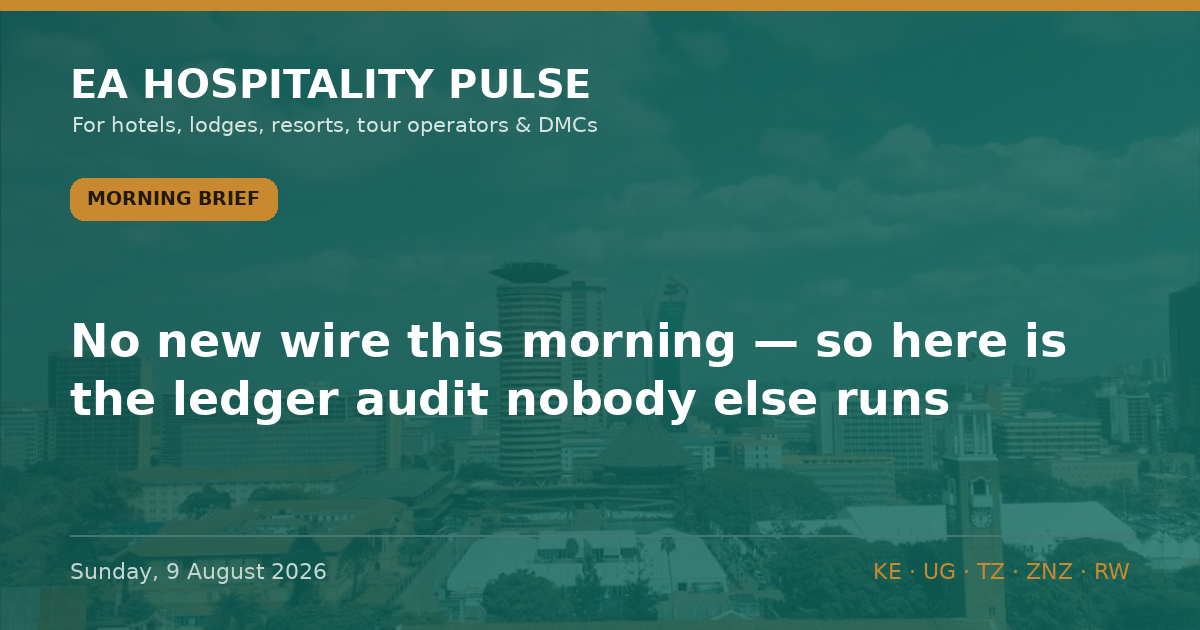
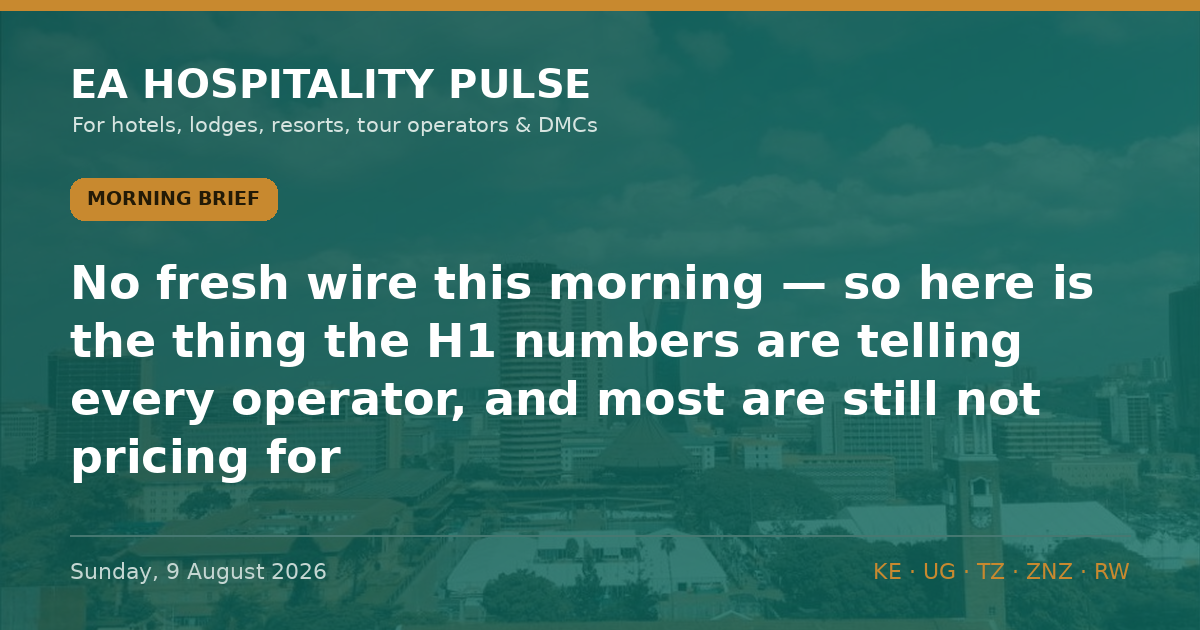
Republish 2026-08-09 Morning as Expert Brief (regional demand thesis)

Changed region(s): [[0.0617, 0.4222, 0.925, 0.7841]]

diff --git a/editions/pulse-2026-08-09-morning.html b/editions/pulse-2026-08-09-morning.html
@@ -2,19 +2,19 @@
 <html lang="en"><head>
 <meta charset="UTF-8"><meta name="viewport" content="width=device-width,initial-scale=1">
 <title>Morning Brief — Sunday, 9 August 2026 | EA Hospitality Pulse</title>
-<meta name="description" content="No new wire this morning — so here is the ledger audit nobody else runs. This is the week it starts paying out: three resolution dates land between Tuesday a…">
+<meta name="description" content="No fresh wire this morning — so here is the thing the H1 numbers are telling every operator, and most are still not pricing for.">
 <link rel="canonical" href="https://eahospitalitypulse.com/editions/pulse-2026-08-09-morning.html">
 <meta property="og:type" content="article"><meta property="og:site_name" content="EA Hospitality Pulse">
 <meta property="og:title" content="Morning Brief — Sunday, 9 August 2026">
-<meta property="og:description" content="No new wire this morning — so here is the ledger audit nobody else runs. This is the week it starts paying out: three resolution dates land between Tuesday a…"><meta property="og:url" content="https://eahospitalitypulse.com/editions/pulse-2026-08-09-morning.html">
+<meta property="og:description" content="No fresh wire this morning — so here is the thing the H1 numbers are telling every operator, and most are still not pricing for."><meta property="og:url" content="https://eahospitalitypulse.com/editions/pulse-2026-08-09-morning.html">
 <meta property="og:image" content="https://eahospitalitypulse.com/og/pulse-2026-08-09-morning.png"><meta property="og:image:width" content="1200"><meta property="og:image:height" content="630">
 <meta name="twitter:image" content="https://eahospitalitypulse.com/og/pulse-2026-08-09-morning.png">
 <link rel="icon" href="../favicon.png"><link rel="apple-touch-icon" href="../apple-touch-icon.png">
 <meta name="twitter:card" content="summary_large_image">
 <meta name="twitter:title" content="Morning Brief — Sunday, 9 August 2026">
-<meta name="twitter:description" content="No new wire this morning — so here is the ledger audit nobody else runs. This is the week it starts paying out: three resolution dates land between Tuesday a…">
+<meta name="twitter:description" content="No fresh wire this morning — so here is the thing the H1 numbers are telling every operator, and most are still not pricing for.">
 <meta property="article:published_time" content="2026-08-09">
-<script type="application/ld+json">{"@context": "https://schema.org", "@type": "NewsArticle", "headline": "No new wire this morning \u2014 so here is the ledger audit nobody else runs. This is the week it starts paying out", "datePublished": "2026-08-09", "dateModified": "2026-08-09", "description": "No new wire this morning \u2014 so here is the ledger audit nobody else runs. This is the week it starts paying out: three resolution dates land between Tuesday a\u2026", "url": "https://eahospitalitypulse.com/editions/pulse-2026-08-09-morning.html", "mainEntityOfPage": "https://eahospitalitypulse.com/editions/pulse-2026-08-09-morning.html", "articleSection": "Morning Brief", "author": {"@type": "Organization", "name": "EA Hospitality Pulse"}, "publisher": {"@type": "Organization", "name": "EA Hospitality Pulse"}, "about": ["Kenya", "Uganda", "Tanzania", "Zanzibar", "Rwanda", "hospitality", "tourism"]}</script>
+<script type="application/ld+json">{"@context": "https://schema.org", "@type": "NewsArticle", "headline": "No fresh wire this morning \u2014 so here is the thing the H1 numbers are telling every operator, and most are stil", "datePublished": "2026-08-09", "dateModified": "2026-08-09", "description": "No fresh wire this morning \u2014 so here is the thing the H1 numbers are telling every operator, and most are still not pricing for.", "url": "https://eahospitalitypulse.com/editions/pulse-2026-08-09-morning.html", "mainEntityOfPage": "https://eahospitalitypulse.com/editions/pulse-2026-08-09-morning.html", "articleSection": "Morning Brief", "author": {"@type": "Organization", "name": "EA Hospitality Pulse"}, "publisher": {"@type": "Organization", "name": "EA Hospitality Pulse"}, "about": ["Kenya", "Uganda", "Tanzania", "Zanzibar", "Rwanda", "hospitality", "tourism"]}</script>
 <style>
 :root{--sand:#f6f1e7;--ink:#1f2421;--muted:#6b6656;--gold:#c8892f;--gold-d:#a86f1f;--teal:#0f6d63;--teal-d:#0a4f48;--line:#e2d8c4;--sand-2:#efe7d6;--card:#fffdf9}
 *{box-sizing:border-box}body{margin:0;font-family:Georgia,Cambria,serif;color:var(--ink);background:var(--sand);line-height:1.6}
@@ -50,12 +50,11 @@ footer.s{text-align:center;color:var(--muted);font-family:Helvetica Neue,Arial,s
     <img class="hero" src="../og/pulse-2026-08-09-morning.png" alt="Morning Brief — Sunday, 9 August 2026" loading="eager">
     <a class="nav" href="../index.html#archive">← All editions</a>
     <div><span class="badge">Morning Brief</span><time>Sunday, 9 August 2026</time></div>
-    <h1>No new wire this morning — so here is the ledger audit nobody else runs.</h1>
+    <h1>No fresh wire this morning — so here is the thing the H1 numbers are telling every operator, and most are still not pric.</h1>
     <p><span class="meta-line">🏨 EA HOSPITALITY PULSE — Morning Brief</span><br><span class="meta-line">📅 Sunday, 9 August 2026 | 🇰🇪🇹🇿🇺🇬🇷🇼</span></p>
-<p>No new wire this morning — so here is the ledger audit nobody else runs. This is the week it starts paying out: three resolution dates land between Tuesday and Thursday.<br>━━━━━━━━━<br><span class="item-head">1⃣ FORECAST CHECK-IN — THREE DAYS TO 12 AUGUST, AND THE LEDGER PAYS OUT THIS WEEK</span><br>The US CDC&#x27;s §362 Ebola entry suspension (DRC, Uganda, South Sudan) still expires Tuesday 12 August. Re-checked this morning: the latest order remains the one published 16 July (effective 13 July) — no early renewal, no early lapse (our call P057, that no new order posts before 11 Aug, is now two days from resolving and still on track). The DRC epidemiology behind it is unchanged since the weekend: 4,053 confirmed cases and 1,850 deaths to 5 August (ECDC/DRC update, 6 Aug) — the next WHO AFRO weekly sit-rep is due Tuesday.<br>The operator question on 12 Aug is not &quot;renew or lift&quot; — DRC&#x27;s numbers argue for renewal. It&#x27;s whether CDC decouples Uganda (Ebola-free since 28 July, now 49 days clear) and drops it from the list.<br><span class="sowhat">🎯 So what: keep the ban in your base case past 12 Aug. But if you run Uganda bush or Entebbe city rooms, this is the week a US-source recovery could get its first green light — have the trade-partner note drafted for either outcome before Tuesday.</span><br><span class="tagline">🏷 All | Regional/Uganda | Reported</span></p>
-<p><span class="item-head">2⃣ STILL TRUE — THE ADVISORY BOARD HASN&#x27;T MOVED</span><br>Re-verified this morning. US: Kenya L2, Tanzania L3, Zanzibar L3, Uganda L4, Rwanda L3. UK: Kenya L2, Tanzania/Zanzibar L1, Uganda L3, Rwanda L2. Uganda&#x27;s US Level 4 stands — driven by the regional Ebola risk, not a new domestic trigger. No government moved a level over the weekend.<br><span class="sowhat">🎯 So what: a confirmed &quot;no change&quot; tells you not to discount on advisory grounds. Hold rate and hold your security messaging.</span><br><span class="tagline">🏷 All | Regional | Confirmed</span></p>
-<p><span class="item-head">3⃣ COST PULSE — THE PUMP-PRICE WINDOW CLOSES IN FIVE DAYS</span><br>Kenya diesel is held at KSh 222.86/L and super at KSh 214.03/L only through 14 August (EPRA July review) — propped by a KSh 945m levy draw and the 8% petroleum VAT rate extended to 14 Oct. KES steady at 129.30/USD; reserves at 6.0 months&#x27; cover. The quiet killer stands: electricity pass-through charges now top KSh 5/kWh.<br><span class="sowhat">🎯 So what: lock safari-transfer and generator-fuel contracts this week, before the ~14–15 Aug review reprices the cycle. Read the pass-through line on the power bill, not the tariff band.</span><br><span class="tagline">🏷 Bush | Kenya | Confirmed</span><br>━━━━━━━━━<br><span class="meta-line">📡 WEEK AHEAD</span><br>• Mon 11 Aug — CDC port-health page: our call P057 (no early Ebola order) resolves<br>• Tue 12 Aug — §362 entry order expires; watch renewal + whether Uganda is dropped (P034/P044/P047/P056 resolve). WHO AFRO weekly DRC sit-rep also due<br>• Wed–Thu 13–14 Aug — CDC renewal confirmation window (P044/P047)<br>• Thu–Fri 14–15 Aug — EPRA fuel review reprices the cycle<br>• 19–21 Aug — Hotel Expo Kenya, KICC Nairobi — a city-hotel midweek compression window</p>
-<p><span class="meta-line">📡 RADAR: could not refresh the live feed from the sandbox this run — 79 of 85 upstream sources returned 403 through the proxy, so the local scan logged 0 in-window observations. That&#x27;s a tooling limit, not a quiet pipeline. The three lead items were instead verified directly against WHO/ECDC, the CDC port-health page and travel.state.gov this morning.</span></p>
+<p>No fresh wire this morning — so here is the thing the H1 numbers are telling every operator, and most are still not pricing for.<br>━━━━━━━━━<br><span class="item-head">1⃣ THE GUESTS ARE ALREADY ACROSS THE BORDER</span><br>The half-year data is in, and it points one way. South Africa took 5.58m international arrivals in H1 2026, up 12.3% — but the split matters more than the headline: arrivals from the rest of Africa rose 14.3%, while overseas arrivals grew just 5.6% (Statistics South Africa, released 30 July). More than 70% of monthly arrivals came from the SADC region. The same pattern shows in our own backyard: Rwanda&#x27;s single largest source market in H1 was not Europe or America but the DRC — 185,420 visitors, 12.5% of arrivals — with Kenya (10%) and Tanzania (9%) next (Rwanda Development Board, H1 2026).<br>Regional demand is growing two to three times faster than long-haul, and it is the base that holds when a Western advisory lands or the dollar turns. Yet it is still treated as walk-in: undifferentiated rate, no product, no campaign.<br><span class="sowhat">🎯 So what: build a deliberate regional book, don&#x27;t wait for it. City hotels — price a weekday cross-border corporate and long-stay rate for the trade, health and education travel that already fills midweek. Bush — sell the shoulder season on the African-resident and EAC tariff you already have (Uganda gorilla permits run US$500 for Africans and UGX 300,000 for EAC citizens vs US$800 foreign; low-season US$600). Beach — court the Gulf and India charter demand that fills the European off-months.</span><br><span class="tagline">🏷 All | Regional/Rwanda/EA | Reported</span><br>━━━━━━━━━<br>📌 STILL TRUE (context, unchanged)<br>• Advisory board: US — Kenya L2, Uganda L4, Tanzania/Zanzibar L3, Rwanda L3. No weekend move.<br>• Cost: Kenya diesel KSh 222.86/L, super KSh 214.03/L held only through 14 Aug (EPRA July review). Lock transfer/generator contracts this week.</p>
+<p><span class="meta-line">📡 THE WATCH</span><br>• Tue 12 Aug — US CDC §362 Ebola entry order expires; watch renewal + whether Uganda is decoupled<br>• Thu–Fri 14–15 Aug — EPRA fuel review reprices the cycle<br>• 19–21 Aug — Hotel Expo Kenya, KICC Nairobi — city-hotel midweek compression</p>
+<p><span class="meta-line">💬 Are you quoting a distinct regional rate, or letting the border trade walk in at rack?</span></p>
 <p>🔗 This edition on the web: https://eahospitalitypulse.com/editions/pulse-2026-08-09-morning.html<br>— EA Hospitality Pulse | Daily intelligence for city, bush &amp; beach properties</p>
     
     <div class="sub">

diff --git a/data.js b/data.js
@@ -5,8 +5,8 @@ window.EDITIONS = [
   "dateDisplay": "Sunday, 9 August 2026",
   "edition": "Morning Brief",
   "editionKey": "morning",
-  "summary": "No new wire this morning — so here is the ledger audit nobody else runs. This is the week it starts paying out: three resolution dates land between Tuesday and Thursday.",
-  "bodyHtml": "<p><span class=\"meta-line\">🏨 EA HOSPITALITY PULSE — Morning Brief</span><br><span class=\"meta-line\">📅 Sunday, 9 August 2026 | 🇰🇪🇹🇿🇺🇬🇷🇼</span></p>\n<p>No new wire this morning — so here is the ledger audit nobody else runs. This is the week it starts paying out: three resolution dates land between Tuesday and Thursday.<br>━━━━━━━━━<br><span class=\"item-head\">1⃣ FORECAST CHECK-IN — THREE DAYS TO 12 AUGUST, AND THE LEDGER PAYS OUT THIS WEEK</span><br>The US CDC&#x27;s §362 Ebola entry suspension (DRC, Uganda, South Sudan) still expires Tuesday 12 August. Re-checked this morning: the latest order remains the one published 16 July (effective 13 July) — no early renewal, no early lapse (our call P057, that no new order posts before 11 Aug, is now two days from resolving and still on track). The DRC epidemiology behind it is unchanged since the weekend: 4,053 confirmed cases and 1,850 deaths to 5 August (ECDC/DRC update, 6 Aug) — the next WHO AFRO weekly sit-rep is due Tuesday.<br>The operator question on 12 Aug is not &quot;renew or lift&quot; — DRC&#x27;s numbers argue for renewal. It&#x27;s whether CDC decouples Uganda (Ebola-free since 28 July, now 49 days clear) and drops it from the list.<br><span class=\"sowhat\">🎯 So what: keep the ban in your base case past 12 Aug. But if you run Uganda bush or Entebbe city rooms, this is the week a US-source recovery could get its first green light — have the trade-partner note drafted for either outcome before Tuesday.</span><br><span class=\"tagline\">🏷 All | Regional/Uganda | Reported</span></p>\n<p><span class=\"item-head\">2⃣ STILL TRUE — THE ADVISORY BOARD HASN&#x27;T MOVED</span><br>Re-verified this morning. US: Kenya L2, Tanzania L3, Zanzibar L3, Uganda L4, Rwanda L3. UK: Kenya L2, Tanzania/Zanzibar L1, Uganda L3, Rwanda L2. Uganda&#x27;s US Level 4 stands — driven by the regional Ebola risk, not a new domestic trigger. No government moved a level over the weekend.<br><span class=\"sowhat\">🎯 So what: a confirmed &quot;no change&quot; tells you not to discount on advisory grounds. Hold rate and hold your security messaging.</span><br><span class=\"tagline\">🏷 All | Regional | Confirmed</span></p>\n<p><span class=\"item-head\">3⃣ COST PULSE — THE PUMP-PRICE WINDOW CLOSES IN FIVE DAYS</span><br>Kenya diesel is held at KSh 222.86/L and super at KSh 214.03/L only through 14 August (EPRA July review) — propped by a KSh 945m levy draw and the 8% petroleum VAT rate extended to 14 Oct. KES steady at 129.30/USD; reserves at 6.0 months&#x27; cover. The quiet killer stands: electricity pass-through charges now top KSh 5/kWh.<br><span class=\"sowhat\">🎯 So what: lock safari-transfer and generator-fuel contracts this week, before the ~14–15 Aug review reprices the cycle. Read the pass-through line on the power bill, not the tariff band.</span><br><span class=\"tagline\">🏷 Bush | Kenya | Confirmed</span><br>━━━━━━━━━<br><span class=\"meta-line\">📡 WEEK AHEAD</span><br>• Mon 11 Aug — CDC port-health page: our call P057 (no early Ebola order) resolves<br>• Tue 12 Aug — §362 entry order expires; watch renewal + whether Uganda is dropped (P034/P044/P047/P056 resolve). WHO AFRO weekly DRC sit-rep also due<br>• Wed–Thu 13–14 Aug — CDC renewal confirmation window (P044/P047)<br>• Thu–Fri 14–15 Aug — EPRA fuel review reprices the cycle<br>• 19–21 Aug — Hotel Expo Kenya, KICC Nairobi — a city-hotel midweek compression window</p>\n<p><span class=\"meta-line\">📡 RADAR: could not refresh the live feed from the sandbox this run — 79 of 85 upstream sources returned 403 through the proxy, so the local scan logged 0 in-window observations. That&#x27;s a tooling limit, not a quiet pipeline. The three lead items were instead verified directly against WHO/ECDC, the CDC port-health page and travel.state.gov this morning.</span></p>\n<p>🔗 This edition on the web: https://eahospitalitypulse.com/editions/pulse-2026-08-09-morning.html<br>— EA Hospitality Pulse | Daily intelligence for city, bush &amp; beach properties</p>"
+  "summary": "No fresh wire this morning — so here is the thing the H1 numbers are telling every operator, and most are still not pricing for.",
+  "bodyHtml": "<p><span class=\"meta-line\">🏨 EA HOSPITALITY PULSE — Morning Brief</span><br><span class=\"meta-line\">📅 Sunday, 9 August 2026 | 🇰🇪🇹🇿🇺🇬🇷🇼</span></p>\n<p>No fresh wire this morning — so here is the thing the H1 numbers are telling every operator, and most are still not pricing for.<br>━━━━━━━━━<br><span class=\"item-head\">1⃣ THE GUESTS ARE ALREADY ACROSS THE BORDER</span><br>The half-year data is in, and it points one way. South Africa took 5.58m international arrivals in H1 2026, up 12.3% — but the split matters more than the headline: arrivals from the rest of Africa rose 14.3%, while overseas arrivals grew just 5.6% (Statistics South Africa, released 30 July). More than 70% of monthly arrivals came from the SADC region. The same pattern shows in our own backyard: Rwanda&#x27;s single largest source market in H1 was not Europe or America but the DRC — 185,420 visitors, 12.5% of arrivals — with Kenya (10%) and Tanzania (9%) next (Rwanda Development Board, H1 2026).<br>Regional demand is growing two to three times faster than long-haul, and it is the base that holds when a Western advisory lands or the dollar turns. Yet it is still treated as walk-in: undifferentiated rate, no product, no campaign.<br><span class=\"sowhat\">🎯 So what: build a deliberate regional book, don&#x27;t wait for it. City hotels — price a weekday cross-border corporate and long-stay rate for the trade, health and education travel that already fills midweek. Bush — sell the shoulder season on the African-resident and EAC tariff you already have (Uganda gorilla permits run US$500 for Africans and UGX 300,000 for EAC citizens vs US$800 foreign; low-season US$600). Beach — court the Gulf and India charter demand that fills the European off-months.</span><br><span class=\"tagline\">🏷 All | Regional/Rwanda/EA | Reported</span><br>━━━━━━━━━<br>📌 STILL TRUE (context, unchanged)<br>• Advisory board: US — Kenya L2, Uganda L4, Tanzania/Zanzibar L3, Rwanda L3. No weekend move.<br>• Cost: Kenya diesel KSh 222.86/L, super KSh 214.03/L held only through 14 Aug (EPRA July review). Lock transfer/generator contracts this week.</p>\n<p><span class=\"meta-line\">📡 THE WATCH</span><br>• Tue 12 Aug — US CDC §362 Ebola entry order expires; watch renewal + whether Uganda is decoupled<br>• Thu–Fri 14–15 Aug — EPRA fuel review reprices the cycle<br>• 19–21 Aug — Hotel Expo Kenya, KICC Nairobi — city-hotel midweek compression</p>\n<p><span class=\"meta-line\">💬 Are you quoting a distinct regional rate, or letting the border trade walk in at rack?</span></p>\n<p>🔗 This edition on the web: https://eahospitalitypulse.com/editions/pulse-2026-08-09-morning.html<br>— EA Hospitality Pulse | Daily intelligence for city, bush &amp; beach properties</p>"
  },
  {
   "id": "pulse-2026-08-08-evening",
@@ -388,21 +388,6 @@ window.EDITIONS = [
  }
 ];
 window.INSIGHTS = [
- {
-  "headline": "COST PULSE — THE PUMP-PRICE WINDOW CLOSES IN FIVE DAYS",
-  "body": "Kenya diesel is held at KSh 222.86/L and super at KSh 214.03/L only through 14 August (EPRA July review) — propped by a KSh 945m levy draw and the 8% petroleum VAT rate extended to 14 Oct. KES steady at 129.30/USD; reserves at 6.0 months' cover. The quiet killer stands: electricity pass-through charges now top KSh 5/kWh.",
-  "sowhat": "🎯 So what: lock safari-transfer and generator-fuel contracts this week, before the ~14–15 Aug review reprices the cycle. Read the pass-through line on the power bill, not the tariff band.",
-  "segments": [
-   "bush"
-  ],
-  "countries": "Kenya",
-  "confidence": "Confirmed",
-  "source": "pulse-2026-08-09-morning",
-  "date": "2026-08-09",
-  "dateDisplay": "Sunday, 9 August 2026",
-  "edition": "Morning Brief",
-  "editionKey": "morning"
- },
  {
   "headline": "COST PULSE — THE PUMP-PRICE WINDOW CLOSES IN SIX DAYS",
   "body": "Kenya diesel is held at KSh 222.86/L and super at KSh 214.03/L only through 14 August (EPRA July review) — propped by a KSh 945m levy draw and the 8% petroleum VAT rate extended to 14 Oct. KES steady at 129.30/USD; reserves 6.0 months' cover. The quiet killer stands: electricity pass-through charges now top KSh 5/kWh.",
@@ -1768,4 +1753,4 @@ window.INSIGHTS = [
   "editionKey": "evening"
  }
 ];
-window.BUILT_AT = "2026-08-09 10:03";
+window.BUILT_AT = "2026-08-09 10:26";

diff --git a/index.html b/index.html
@@ -350,7 +350,7 @@
   .pl-brand{font-family:'Helvetica Neue',Arial,sans-serif;font-size:12px;font-weight:600;color:var(--muted);background:var(--sand-2);padding:2px 8px;border-radius:20px;margin-left:4px;white-space:nowrap}
   .pl-detail{font-size:14px;color:var(--muted);margin:6px 0 8px;line-height:1.55}
 </style>
-<!--BUILD_STAMP:20260809-1003--></head>
+<!--BUILD_STAMP:20260809-1026--></head>
 <body>
 <header class="site">
   <div class="wrap topbar">

diff --git a/ledger.js b/ledger.js
@@ -1,5 +1,5 @@
 window.LEDGER = {
- "updated": "2026-08-09 10:03",
+ "updated": "2026-08-09 10:26",
  "stats": {
   "total": 59,
   "open": 53,

diff --git a/editions-src/pulse-2026-08-09-morning.md b/editions-src/pulse-2026-08-09-morning.md
@@ -1,76 +1,70 @@
 # EA Hospitality Pulse — Morning Brief — Sunday, 9 August 2026
 
-_Tier 2 Standing Brief. No new development clears the recency gate this morning — the general sweep returned only undated SEO aggregators (Travel And Tour World, MICE Travel Advisor), and no primary source has moved since yesterday's evening wrap. This edition leads with the forecast-ledger audit nobody else runs, now three days out from the 12 August call and re-verified against primary sources this morning: the CDC order still expires Tuesday, DRC epidemiology unchanged at 4,053, Uganda still Level 4. Radar note (honest): the sandbox could not refresh the live feed this run — 79 of 85 upstream sources returned 403 through the proxy allowlist, so the local scan showed 0 in-window observations, a tooling limitation, not a dead pipeline or a quiet news day. Lead items were verified directly against WHO/ECDC, the CDC port-health page and travel.state.gov via web search instead._
+_Expert Brief. No new EA development clears the recency gate this morning, so the lead is analysis, not a digest: what the H1 2026 arrivals data from across Africa says about where East Africa's resilient demand actually sits — and what most operators are still mispricing. Forecast ledger checked silently (12 August CDC cluster unchanged; nothing resolved overnight). Sources: Statistics South Africa H1 2026 (released 30 July 2026), Rwanda Development Board H1 2026 arrivals, Uganda Wildlife Authority tariff. Figures graded Reported unless the primary body is named._
 
 ## TELEGRAM
 
 🏨 EA HOSPITALITY PULSE — Morning Brief
 📅 Sunday, 9 August 2026 | 🇰🇪🇹🇿🇺🇬🇷🇼
 
-No new wire this morning — so here is the ledger audit nobody else runs. This is the week it starts paying out: three resolution dates land between Tuesday and Thursday.
+No fresh wire this morning — so here is the thing the H1 numbers are telling every operator, and most are still not pricing for.
 ━━━━━━━━━
-1⃣ FORECAST CHECK-IN — THREE DAYS TO 12 AUGUST, AND THE LEDGER PAYS OUT THIS WEEK
-The US CDC's §362 Ebola entry suspension (DRC, Uganda, South Sudan) still expires Tuesday 12 August. Re-checked this morning: the latest order remains the one published 16 July (effective 13 July) — no early renewal, no early lapse (our call P057, that no new order posts before 11 Aug, is now two days from resolving and still on track). The DRC epidemiology behind it is unchanged since the weekend: 4,053 confirmed cases and 1,850 deaths to 5 August (ECDC/DRC update, 6 Aug) — the next WHO AFRO weekly sit-rep is due Tuesday.
-The operator question on 12 Aug is not "renew or lift" — DRC's numbers argue for renewal. It's whether CDC decouples Uganda (Ebola-free since 28 July, now 49 days clear) and drops it from the list.
-🎯 So what: keep the ban in your base case past 12 Aug. But if you run Uganda bush or Entebbe city rooms, this is the week a US-source recovery could get its first green light — have the trade-partner note drafted for either outcome before Tuesday.
-🏷 All | Regional/Uganda | Reported
-
-2⃣ STILL TRUE — THE ADVISORY BOARD HASN'T MOVED
-Re-verified this morning. US: Kenya L2, Tanzania L3, Zanzibar L3, Uganda L4, Rwanda L3. UK: Kenya L2, Tanzania/Zanzibar L1, Uganda L3, Rwanda L2. Uganda's US Level 4 stands — driven by the regional Ebola risk, not a new domestic trigger. No government moved a level over the weekend.
-🎯 So what: a confirmed "no change" tells you not to discount on advisory grounds. Hold rate and hold your security messaging.
-🏷 All | Regional | Confirmed
-
-3⃣ COST PULSE — THE PUMP-PRICE WINDOW CLOSES IN FIVE DAYS
-Kenya diesel is held at KSh 222.86/L and super at KSh 214.03/L only through 14 August (EPRA July review) — propped by a KSh 945m levy draw and the 8% petroleum VAT rate extended to 14 Oct. KES steady at 129.30/USD; reserves at 6.0 months' cover. The quiet killer stands: electricity pass-through charges now top KSh 5/kWh.
-🎯 So what: lock safari-transfer and generator-fuel contracts this week, before the ~14–15 Aug review reprices the cycle. Read the pass-through line on the power bill, not the tariff band.
-🏷 Bush | Kenya | Confirmed
+1⃣ THE GUESTS ARE ALREADY ACROSS THE BORDER
+The half-year data is in, and it points one way. South Africa took 5.58m international arrivals in H1 2026, up 12.3% — but the split matters more than the headline: arrivals from the rest of Africa rose 14.3%, while overseas arrivals grew just 5.6% (Statistics South Africa, released 30 July). More than 70% of monthly arrivals came from the SADC region. The same pattern shows in our own backyard: Rwanda's single largest source market in H1 was not Europe or America but the DRC — 185,420 visitors, 12.5% of arrivals — with Kenya (10%) and Tanzania (9%) next (Rwanda Development Board, H1 2026).
+Regional demand is growing two to three times faster than long-haul, and it is the base that holds when a Western advisory lands or the dollar turns. Yet it is still treated as walk-in: undifferentiated rate, no product, no campaign.
+🎯 So what: build a deliberate regional book, don't wait for it. City hotels — price a weekday cross-border corporate and long-stay rate for the trade, health and education travel that already fills midweek. Bush — sell the shoulder season on the African-resident and EAC tariff you already have (Uganda gorilla permits run US$500 for Africans and UGX 300,000 for EAC citizens vs US$800 foreign; low-season US$600). Beach — court the Gulf and India charter demand that fills the European off-months.
+🏷 All | Regional/Rwanda/EA | Reported
 ━━━━━━━━━
-📡 WEEK AHEAD
-• Mon 11 Aug — CDC port-health page: our call P057 (no early Ebola order) resolves
-• Tue 12 Aug — §362 entry order expires; watch renewal + whether Uganda is dropped (P034/P044/P047/P056 resolve). WHO AFRO weekly DRC sit-rep also due
-• Wed–Thu 13–14 Aug — CDC renewal confirmation window (P044/P047)
+📌 STILL TRUE (context, unchanged)
+• Advisory board: US — Kenya L2, Uganda L4, Tanzania/Zanzibar L3, Rwanda L3. No weekend move.
+• Cost: Kenya diesel KSh 222.86/L, super KSh 214.03/L held only through 14 Aug (EPRA July review). Lock transfer/generator contracts this week.
+
+📡 THE WATCH
+• Tue 12 Aug — US CDC §362 Ebola entry order expires; watch renewal + whether Uganda is decoupled
 • Thu–Fri 14–15 Aug — EPRA fuel review reprices the cycle
-• 19–21 Aug — Hotel Expo Kenya, KICC Nairobi — a city-hotel midweek compression window
+• 19–21 Aug — Hotel Expo Kenya, KICC Nairobi — city-hotel midweek compression
 
-📡 RADAR: could not refresh the live feed from the sandbox this run — 79 of 85 upstream sources returned 403 through the proxy, so the local scan logged 0 in-window observations. That's a tooling limit, not a quiet pipeline. The three lead items were instead verified directly against WHO/ECDC, the CDC port-health page and travel.state.gov this morning.
+💬 Are you quoting a distinct regional rate, or letting the border trade walk in at rack?
 
 🔗 This edition on the web: https://eahospitalitypulse.com/editions/pulse-2026-08-09-morning.html
 — EA Hospitality Pulse | Daily intelligence for city, bush & beach properties
 
 ## WHATSAPP
 
-📌 *EA HOSPITALITY PULSE*
+🏨 *EA HOSPITALITY PULSE*
 _Morning · Sun 9 Aug_
 
-📌 *Three days to the 12 August call — and this is the week it resolves*
-The US CDC Ebola entry ban (Uganda, DRC, South Sudan) still expires Tue 12 Aug; no early move this morning. DRC unchanged at 4,053 confirmed (ECDC), but Uganda is now 49 days clear and Ebola-free — watch for a decouple, not just a renewal.
-→ *Do this:* hold rate — advisory board unchanged — and lock fuel/transfer contracts before Kenya's ~14–15 Aug EPRA review (diesel KSh 222.86/L through 14 Aug only).
+📌 *Your fastest-growing market is next door — are you pricing it?*
+Africa's H1 2026 data is clear: in South Africa, arrivals from the continent grew 14.3% vs just 5.6% overseas (Stats SA). Rwanda's No.1 source market is now the DRC (185,420, 12.5%). Regional demand is the base that holds when long-haul softens.
+→ *Do this:* build a real regional rate — weekday cross-border corporate for city hotels, the EAC/African-resident permit tariff for bush, Gulf/India charters for beach. Stop letting the border trade walk in at rack.
 
 📌 *ALSO TODAY*
-🇺🇬 Uganda US Level 4 stands — no weekend move
-🇰🇪 EPRA fuel review now five days out — plan now
+🇰🇪 Diesel held at KSh 222.86/L only to 14 Aug — lock contracts now
+🌍 Tue 12 Aug: US CDC Ebola entry order expires — watch a possible Uganda decouple
 
-📊 *NUMBER OF THE DAY:* 49 — days Uganda has been Ebola-free (last case 21 June), the case for decoupling it from DRC when the US reviews the entry ban on Tuesday.
+📊 *NUMBER OF THE DAY:* 14.3% vs 5.6% — H1 2026 growth in South Africa's arrivals from the rest of Africa versus from overseas (Stats SA). Regional is outrunning long-haul two-to-one.
 
 📖 Read on the web → https://eahospitalitypulse.com/editions/pulse-2026-08-09-morning.html
 🔗 Telegram → https://t.me/eahospitalitypulse
 
 ## LINKEDIN
 
-The most useful thing a market-intelligence brief can do on a quiet news day is audit its own forecasts in public — so here is ours, three days out from the call that matters to every operator with Uganda or regional exposure.
+The half-year arrivals data is in from across Africa, and it quietly overturns the market most East African properties still build their rate card around.
 
-On Tuesday 12 August, the US CDC's Ebola entry suspension covering the DRC, Uganda and South Sudan reaches its expiry. Re-checked this morning against the CDC's own port-health page: no order has posted early — the standing order is still the one published 16 July, effective 13 July. The epidemiology behind it hasn't moved over the weekend either: the DRC outbreak sits at 4,053 confirmed cases and 1,850 deaths (ECDC, data to 5 August), with the next WHO AFRO weekly report due Tuesday.
+Start with the cleanest number. South Africa recorded 5.58 million international arrivals in the first half of 2026, up 12.3% (Statistics South Africa, released 30 July). But the growth was lopsided: arrivals from the rest of the African continent rose 14.3%, while overseas arrivals grew 5.6%. More than 70% of monthly arrivals came from SADC neighbours. The story is not the long-haul recovery everyone is waiting on — it is the regional traveller who never left.
 
-So the real question on 12 August is not "renew or lift." The DRC numbers argue plainly for renewal. It is whether the US decouples Uganda — Ebola-free since 28 July and now 49 days clear — and drops it from the designated list. That single decision is the difference between a US-source recovery for Ugandan lodges and Entebbe city hotels starting to price in, and another month of a Level 4 "Do Not Travel" hanging over the corridor.
+East Africa shows the same signal without the same attention. In H1 2026, Rwanda's single largest source market was not the UK, Germany or the US. It was the Democratic Republic of Congo — 185,420 visitors, 12.5% of all arrivals — with Kenya and Tanzania close behind (Rwanda Development Board). Cross-border trade, healthcare, education and family travel are generating demand that is structurally more resilient than any long-haul segment, because it does not evaporate when a Western foreign ministry updates an advisory or the dollar strengthens.
 
-Our base case remains renewal, Uganda still listed. But we've logged the decouple as a falsifiable call, and Tuesday resolves it either way. If you run Uganda exposure, the operator move this weekend is dull but decisive: have the trade-partner note drafted for both outcomes now, so you're not writing it on Tuesday afternoon.
+Here is what most operators are missing: regional demand is treated as low-yield walk-in — no distinct rate, no product, no campaign — precisely because it arrives without an OTA booking or a European tour operator attached. That is a pricing failure, not a demand ceiling. The regional guest books on a shorter lead, travels by road or regional air, and blends business with leisure. They are underserved, not low-value.
+
+The move is not to abandon long-haul. It is to build a deliberate regional book alongside it: a weekday cross-border corporate and long-stay rate for city hotels; the African-resident and EAC permit tariff packaged into a real shoulder-season offer for lodges; Gulf and Indian charter demand courted for the beach off-season. The destinations already doing this are the ones posting double-digit growth while the rest wait for Europe to come back.
 
 We track this daily at EA Hospitality Pulse.
 
-#Hospitality #HotelInvestment #Uganda #EastAfrica #TravelAdvisory
+#Hospitality #RevenueManagement #EastAfrica #Rwanda #Tourism
 
 ### FIRST COMMENT
-This edition on the web: https://eahospitalitypulse.com/editions/pulse-2026-08-09-morning.html
-Telegram: https://t.me/eahospitalitypulse
-WhatsApp Channel: https://whatsapp.com/channel/0029VbCjul2KmCPTv8Qrh73b
-Archive: https://eahospitalitypulse.com
+This edition in full: https://eahospitalitypulse.com/editions/pulse-2026-08-09-morning.html
+Daily briefs on Telegram: https://t.me/eahospitalitypulse
+The 15-second version on WhatsApp: https://whatsapp.com/channel/0029VbCjul2KmCPTv8Qrh73b
+Archive, live advisory board and rate index: https://eahospitalitypulse.com
